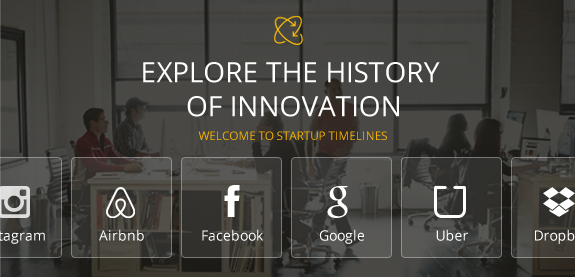
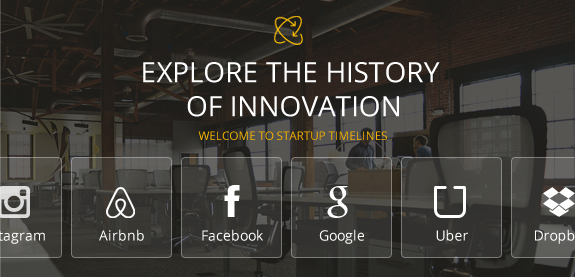
Updated images

diff --git a/source/stylesheets/layout.sass b/source/stylesheets/layout.sass
@@ -21,7 +21,7 @@ body
   display: block
   content: ''
   width: 100%
-  background: rgba(9,9,9,.6)
+  background: rgba(9,9,9,.5)
 
 .logo
   top: 15px
